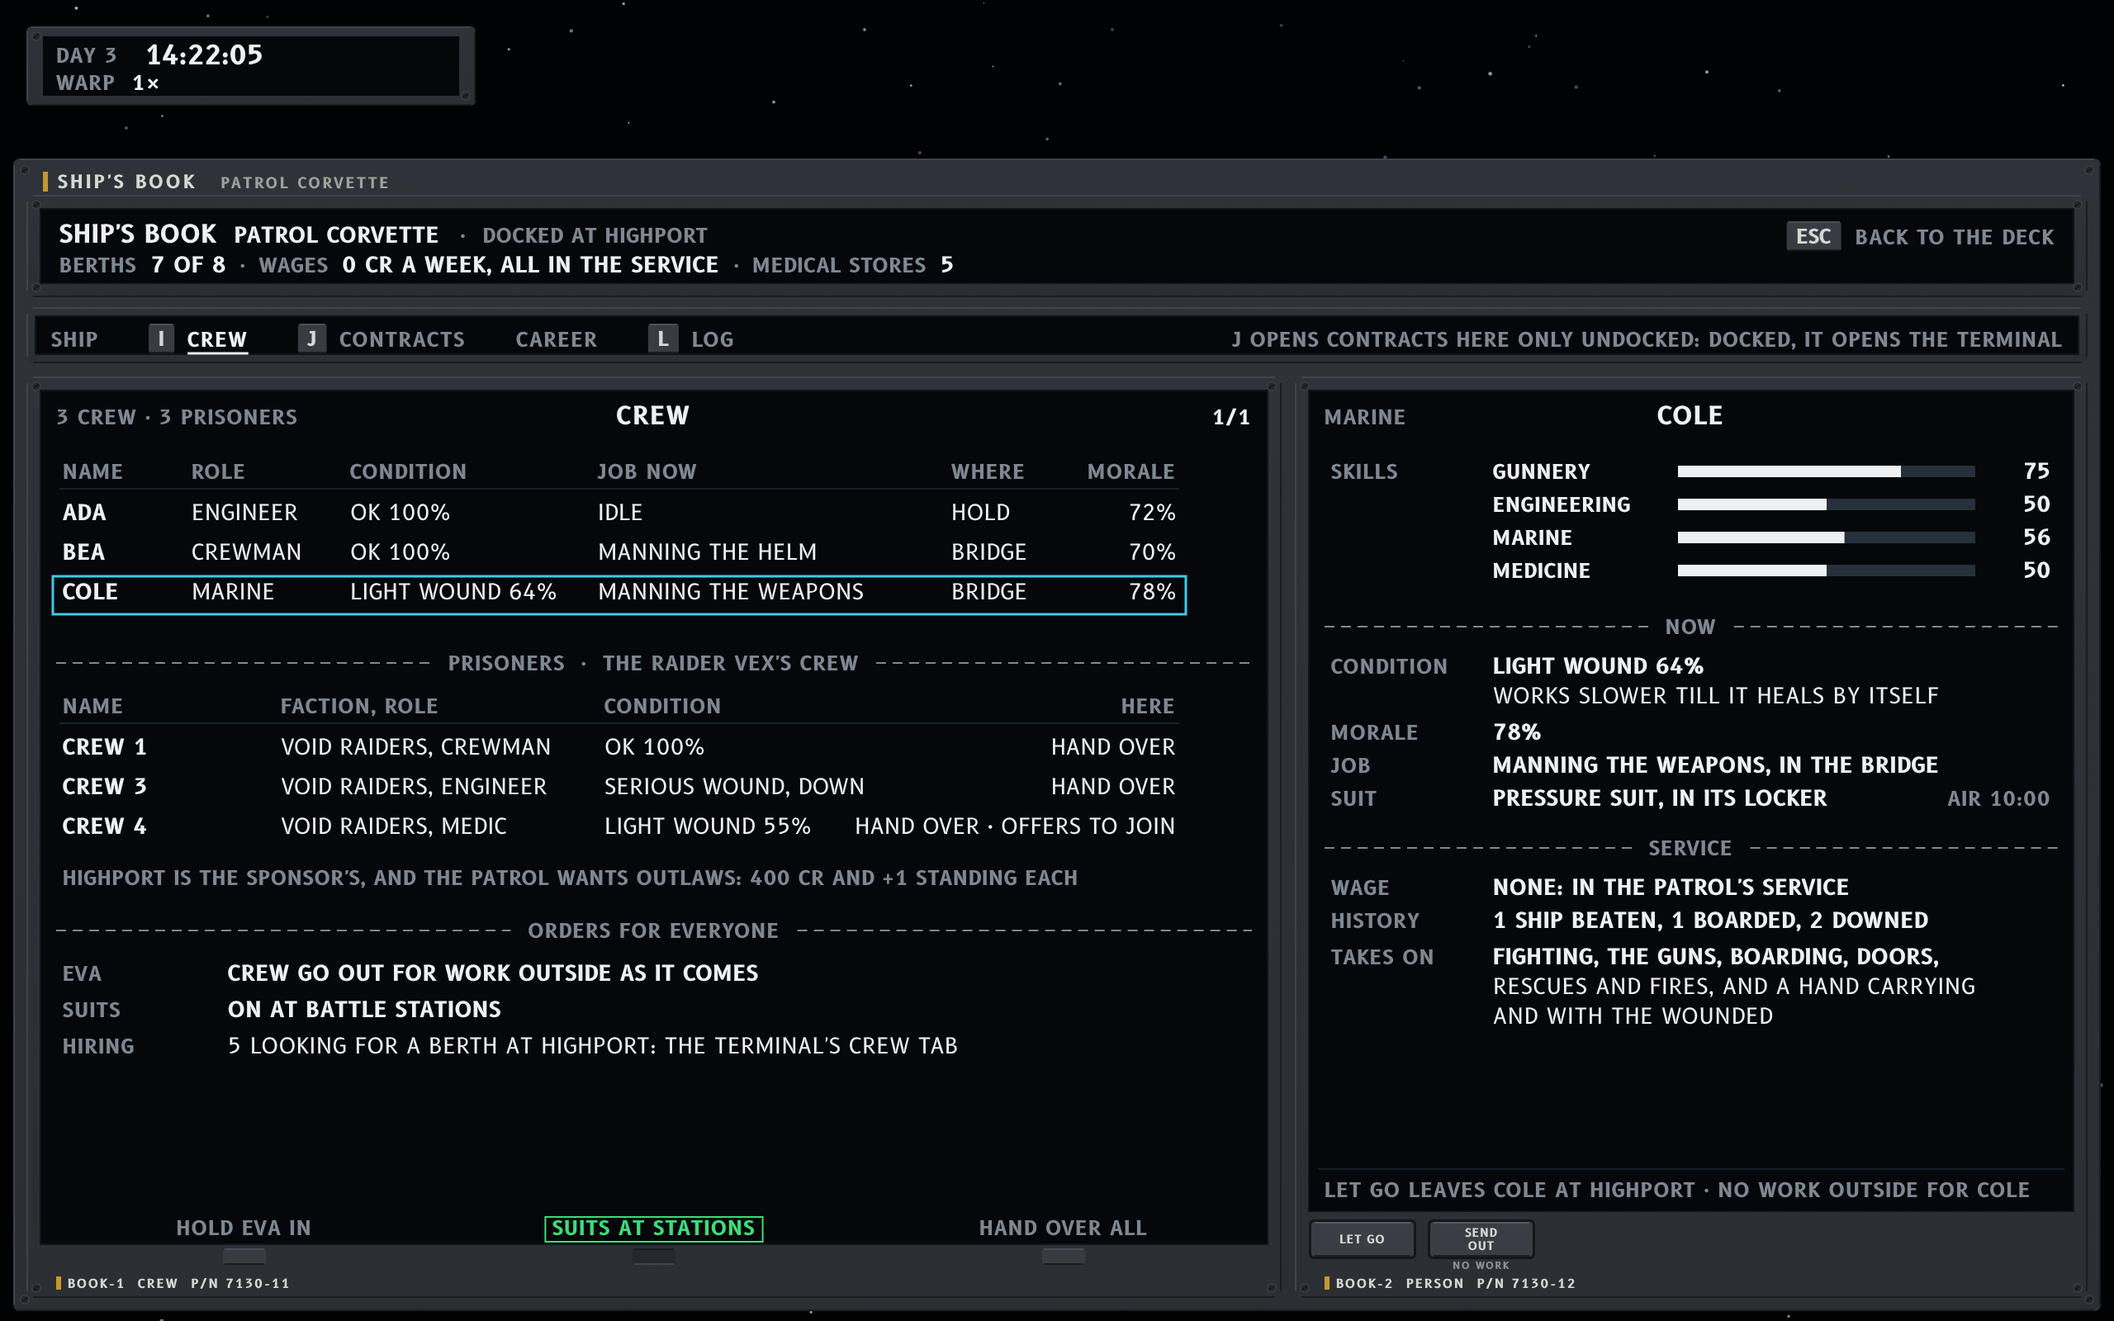
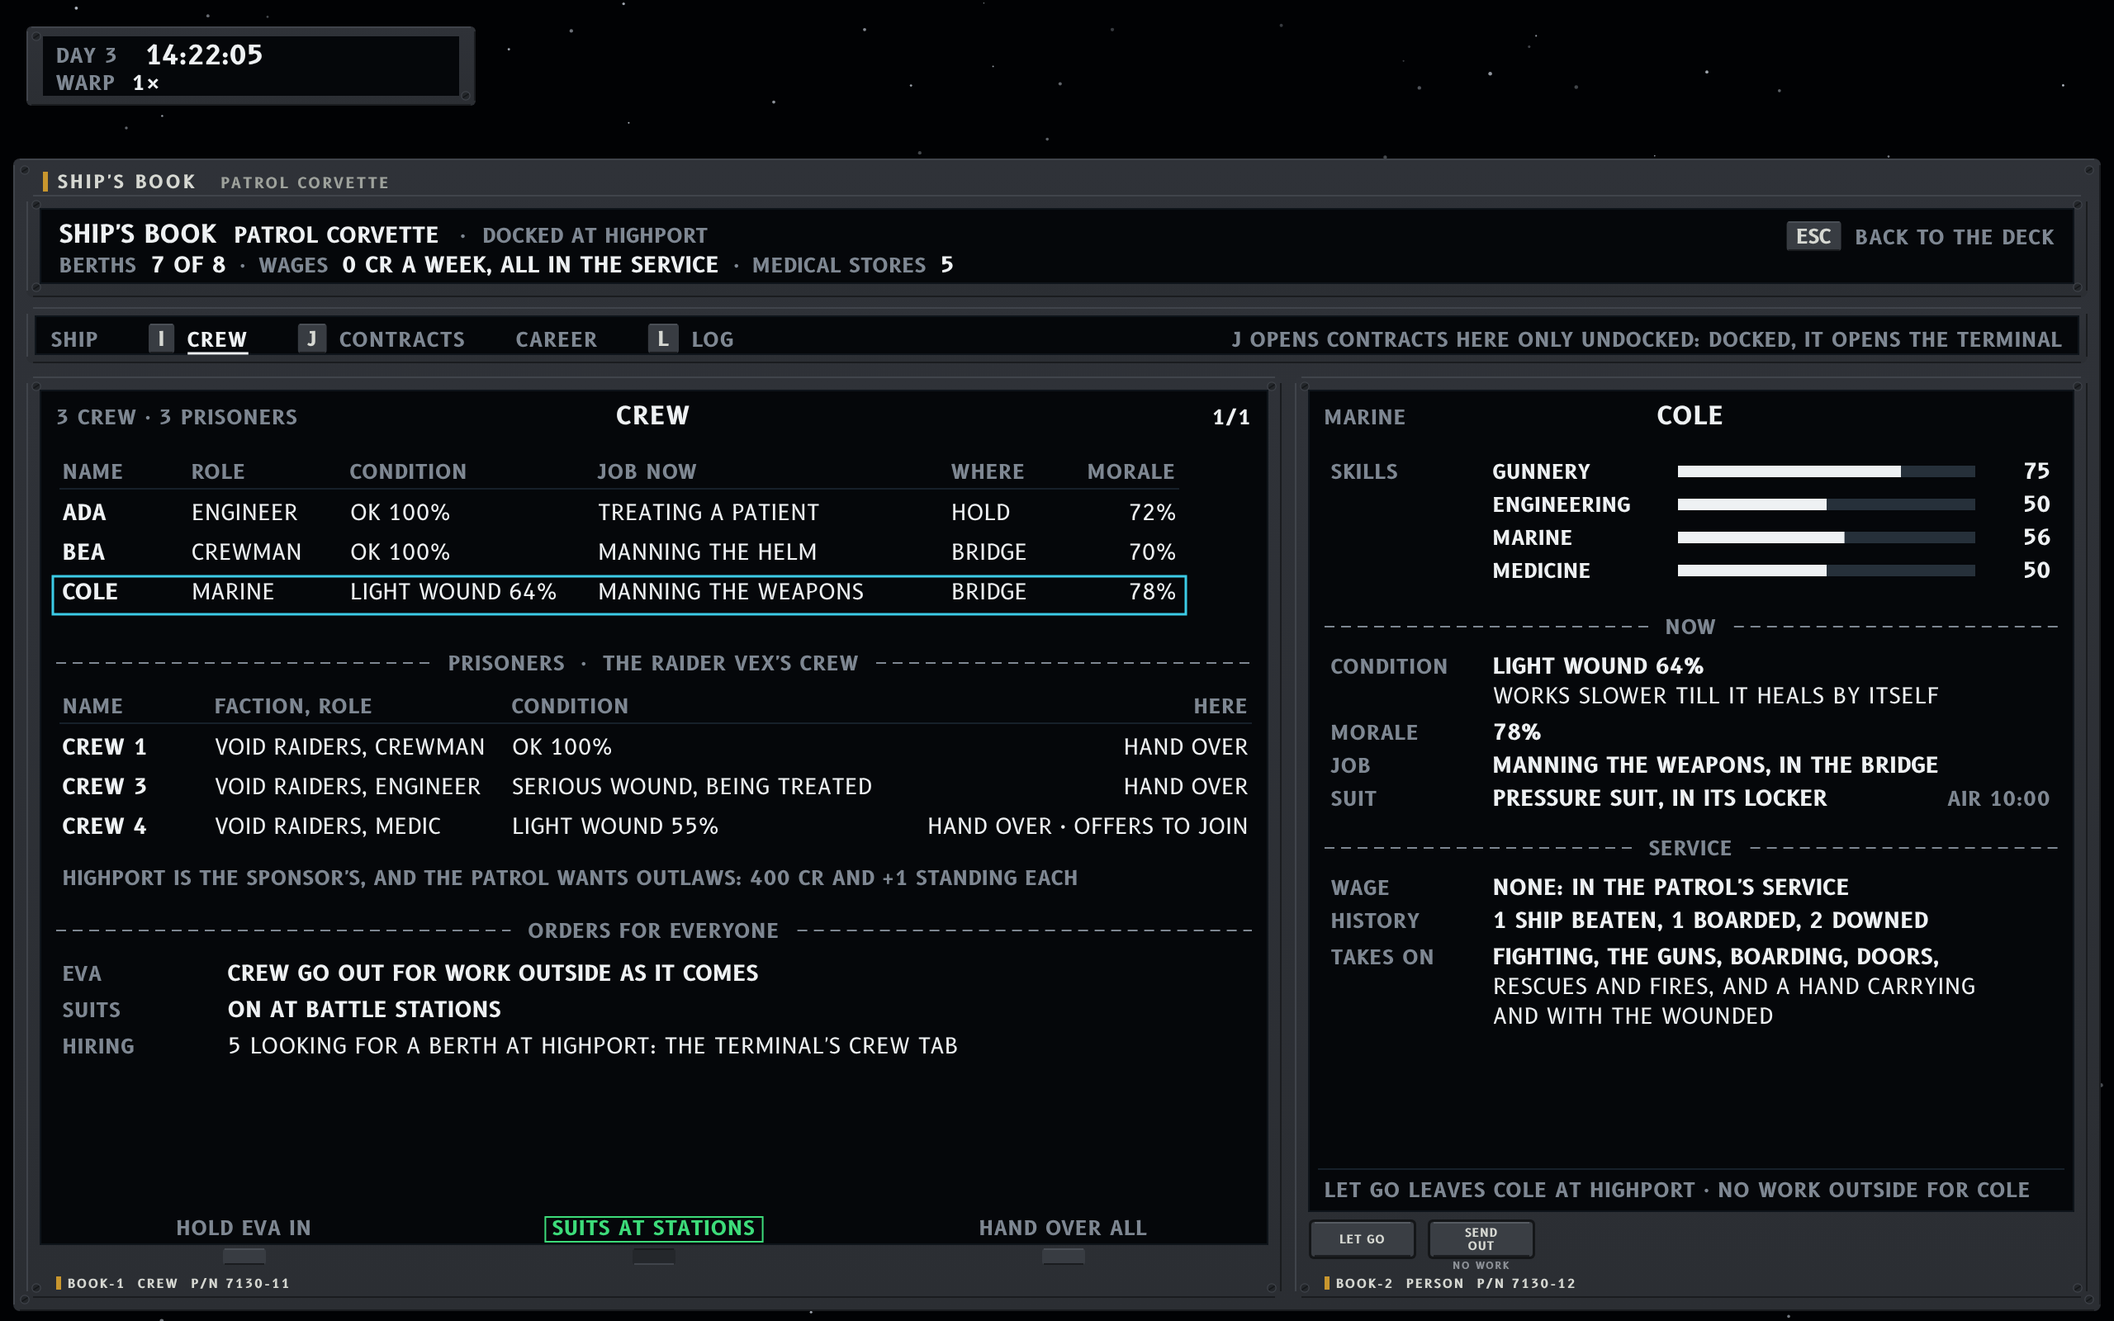
Nasa-punk task: the console panel at a gun (T10), and two fixes
T10 draws CON at the starboard autocannon, docked at Highport as in T7:
anchored below the mount, the prompt's plate grown, with health, power
and state on the glass and Enter and V as caps. T3's weapons console
prompt now offers only V SIT, since the spec has E and V both sit
there. T7's Ada treats the wounded prisoner, as the game's crew do.

Claude-Session: https://claude.ai/code/session_019poqwU7t7xAtWdh55iGaqe

Changed region(s): [[0.0938, 0.5312, 0.4062, 0.6562], [0.4375, 0.5312, 0.5938, 0.6562], [0.2812, 0.375, 0.375, 0.4062]]

diff --git a/documentation/ui-overhaul/variations/nasapunk-task/t10-console-gun.html b/documentation/ui-overhaul/variations/nasapunk-task/t10-console-gun.html
@@ -1,0 +1,98 @@
+<!doctype html>
+<html><head><meta charset="utf-8"><title>Task: console panel at a gun</title>
+<link rel="stylesheet" href="../../nasapunk/mockups/fonts.css">
+<style>html,body{margin:0;background:#000}svg{display:block}</style>
+</head><body>
+<div id="out"></div>
+<script src="../../nasapunk/mockups/lib.js"></script>
+<script src="../../nasapunk/mockups/kit.js"></script>
+<script src="../../nasapunk/mockups/screens.js"></script>
+<script src="task.js"></script>
+<script>
+// CON, the console panel (task spec, section 7), at a gun: docked at Highport on day 3, as in T7,
+// the captain has walked forward to the starboard autocannon's mount and pressed E. The panel is
+// anchored beside the console, below the mount where the starboard hull meets space, not in the
+// middle of the screen; it closes when the captain walks away, or with Esc (the closing order).
+//
+// It replaces today's console window at a gun (ConsoleWindow, titled "Gun": the console id, the
+// system, its health and state, a Switch off button, and "Take the gun [V]", centred on the
+// screen), in the spec's words: the system's name, health, power (its circuit, or none), state
+// (on, off, shorted, stunned) and its one switch, and at a gun, V takes it. The mount is named as
+// WPN names it (FWD STBD autocannon). The panel is the INT prompt's plate grown: the name engraved
+// on the bezel with its kapton strip, a glass for the numbers, and the two keys as caps with their
+// verbs, the switch's under a toggle that shows where it stands. Enter throws the switch and V
+// takes the gun (T9's CONSOLE rows); while the panel is open it carries those keys, so the prompt
+// it opened from stands down rather than repeat them.
+//
+// All of it is the game's: the corvette's five mounts, this one an Autocannon Mk1 on circuit 1, the
+// ship's one circuit (weapons.toml, ships.toml); nothing is wrong with it. The people are T7's: Bea
+// at the helm and Cole, lightly wounded, at the weapons console, seeing to the wound there
+// (CrewHealthSystem); Ada in the hold treating Crew 3, the prisoner seriously wounded, since a ship's
+// crew care for the prisoners they hold; Crew 1 and Crew 4 held beside them. The light wounds and
+// the one being treated light the CREW lamp's advisory. Docked, with no contract held and nothing
+// fresh to tell, OBJ, NTF and HLM are hidden, and PER too: the captain is unhurt, unsuited and in
+// good air.
+let s = space({ planet: false, seed: 13 });
+
+// The world: the camera on the captain by the starboard autocannon's mount (chassis 14, 1)
+const AV = [13.55, 1.6];
+const K = 60, OX = 640 - AV[0] * K, OY = 400 - (6 - AV[1]) * K, X = tx => OX + tx * K, Y = ty => OY + (6 - ty) * K;
+// Highport's arm, latched to the port side's collar
+{
+  const ax = X(7.3), aw = X(9.7) - X(7.3);
+  s += rect(ax, -4, aw, Y(6) + 8, { fill: '#3E434A', stroke: '#24282C', sw: 1.5 });
+  for (let yy = Y(6) - 30; yy > 0; yy -= 30) s += line(ax + 2, yy, ax + aw - 2, yy, '#2E3237', 2);
+  s += line(ax + 10, -4, ax + 10, Y(6), '#4D535B', 1.5) + line(ax + aw - 10, -4, ax + aw - 10, Y(6), '#4D535B', 1.5);
+  s += rect(X(7.1), Y(6) - 12, X(9.9) - X(7.1), 14, { fill: '#30353B', stroke: '#1E2125', sw: 1.5 });
+}
+s += corvetteDeck(OX, OY, K, {
+  id: 't10',
+  // Ada kneeling by Crew 3; Bea at the helm; Cole at the weapons console
+  crew: [[4.62, 1.62], [10.25, 4.55], [10.3, 3.45]],
+  held: [[3.55, 4.5], [4.5, 4.45]],
+  avatar: AV,
+  labels: true, labelAt: { bridge: [11.6, 2.75] },
+});
+// Crew 3, a prisoner seriously wounded and down, lying in the hold in the raiders' grey
+s += `<g transform="rotate(4 ${X(3.75)} ${Y(1.5)})"><ellipse cx="${X(3.75)}" cy="${Y(1.5)}" rx="${K * 0.44}" ry="${K * 0.2}" fill="#7D8590" stroke="#1A1A1A" stroke-width="1"/><circle cx="${X(3.75) - K * 0.4}" cy="${Y(1.5)}" r="${K * 0.16}" fill="#C99A78" stroke="#1A1A1A" stroke-width="0.8"/></g>`;
+
+// ---- the fixed zones: the clock, and the lamps with CREW's advisory ----
+s += chronometer({ day: 'DAY 3', time: '14:22:05', warp: '1×' });
+s += annunciatorPanel({ CREW: 'advisory' });
+
+// ---- CON, anchored beside the mount ----
+const MX = X(14.5), MY = Y(1.5);
+const P = { x: 712, y: 528, w: 280, h: 188 };
+// the leader from the mount's rim to the panel, in the world overlays' white
+s += haloed((c, w) => line(MX, MY + 0.42 * K, P.x + 30, P.y, c, w), C.white, 1) + `<circle cx="${MX}" cy="${MY + 0.42 * K}" r="2.5" fill="${C.white}"/>`;
+{
+  const { x, y, w, h } = P;
+  s += bezelBody(x, y, w, h, 4) + fastener(x + 7, y + 7) + fastener(x + w - 7, y + 7) + fastener(x + 7, y + h - 7) + fastener(x + w - 7, y + h - 7);
+  // the name, engraved on the bezel beside the prompt's kapton strip
+  s += rect(x + 16, y + 9, 3, 14, { fill: C.kapton }) + text(x + 25, y + 21, 'FWD STBD AUTOCANNON', { size: 12, bold: true, fill: C.stencil, track: 1 });
+  // the glass: health, power, state
+  const gx = x + 12, gy = y + 31, gw = w - 24, gh = 78;
+  s += rect(gx, gy, gw, gh, { fill: C.glass }) + rect(gx + 0.5, gy + 0.5, gw - 1, gh - 1, { stroke: '#0E141A', sw: 1 });
+  const row = (yy, k, v) => text(gx + 12, yy, k, { size: S_LABEL, bold: true, fill: C.dim, track: 0.6 }) + text(gx + 96, yy, v, { size: S_DATA, bold: true, fill: C.white, track: 0.4 });
+  s += row(gy + 22, 'HEALTH', '100%') + row(gy + 45, 'POWER', 'CIRCUIT 1') + row(gy + 68, 'STATE', 'ON');
+  // the switch: a toggle seen from the front, its lever up for on, ON and OFF engraved either side
+  const tx = x + 40, ty = y + 150;
+  s += text(tx, ty - 23, 'ON', { size: 9, bold: true, fill: C.stencil, anchor: 'middle', track: 1, legend: true });
+  s += text(tx, ty + 30, 'OFF', { size: 9, bold: true, fill: C.stencil, anchor: 'middle', track: 1, legend: true });
+  s += `<circle cx="${tx}" cy="${ty}" r="10" fill="#1F2226" stroke="#4A5058" stroke-width="1.2"/><circle cx="${tx}" cy="${ty}" r="5.5" fill="#2A2E33" stroke="#15171A" stroke-width="1"/>`;
+  s += line(tx, ty, tx, ty - 15, '#15171A', 4.5) + line(tx, ty, tx, ty - 15, '#D2D5CF', 3) + `<circle cx="${tx}" cy="${ty - 16}" r="3" fill="#D2D5CF" stroke="#15171A" stroke-width="0.8"/>`;
+  // the two keys, as caps with their verbs: Enter throws the switch, V takes the gun
+  const cap = (cx, cy, k, v) => {
+    const kw = tw(k, 12, true) + 14;
+    return softKey(cx, cy - 13, kw, 18, false) + text(cx + kw / 2, cy, k, { size: 12, bold: true, fill: C.stencil, anchor: 'middle' })
+      + text(cx + kw + 8, cy, v, { size: TB, bold: true, fill: C.white, track: 0.4 });
+  };
+  s += cap(x + 70, ty - 6, 'ENTER', 'SWITCH OFF') + cap(x + 70, ty + 22, 'V', 'TAKE THE GUN');
+}
+
+// E opened the panel and V is on it, so the hint line carries the rest
+s += hintLine([['ESC', 'CLOSE'], ['W/A/S/D', 'WALK'], ['F1', 'CONTROLS']]);
+
+document.getElementById('out').innerHTML = svgPage(s);
+</script>
+</body></html>

diff --git a/documentation/ui-overhaul/variations/nasapunk-task/t7-book-crew.html b/documentation/ui-overhaul/variations/nasapunk-task/t7-book-crew.html
@@ -21,10 +21,11 @@
 // or reads New (every second of work also raises engineering, so Cole, with none, is still at 50); a
 // condition is OK or unconscious with the health left, a light wound with it, or a serious or
 // critical wound with what is being done about it. The job is the game's own words for it
-// (CrewTasks): with nothing to do, an engineer is idle, since an engineer never mans a console (a
-// damaged system is mended in seconds, and the rest of the damage is the yard's), and the rest man
-// the consoles (a crewman the helm, a marine the weapons); a suit goes back to its locker, which
-// fills it. Prisoners take berths (4 aboard and 3 held of the corvette's 8). A
+// (CrewTasks): an engineer never mans a console (a damaged system is mended in seconds, and the
+// rest of the damage is the yard's), so Ada, free, is treating a patient, Crew 3, since a ship's
+// crew care for the prisoners they hold, a serious wound first (CrewHealthSystem), and the rest man
+// the consoles (a crewman the helm, a marine the weapons), where the lightly wounded see to
+// themselves; a suit goes back to its locker, which fills it. Prisoners take berths (4 aboard and 3 held of the corvette's 8). A
 // raider's crew are named Crew 1 to 4 by the game, and Crew 2 died of the wound; at one of the
 // sponsor's stations a prisoner the sponsor wants is handed over for 400 CR and +1 standing; and one
 // outlaw in three offers to join, by a hash of the name and role, which picks Crew 4. Send out
@@ -74,16 +75,16 @@ const list = du(16, 228, 760, 558, {
     const L = gx + 14;
     const cols = [{ t: 'NAME', w: 78 }, { t: 'ROLE', w: 96 }, { t: 'CONDITION', w: 150 }, { t: 'JOB NOW', w: 214 }, { t: 'WHERE', w: 70 }, { t: 'MORALE', w: 66, align: 'right' }];
     const gr = grid(L, gy + 54, cols, [
-      [{ t: 'ADA', bold: true }, 'ENGINEER', 'OK 100%', 'IDLE', 'HOLD', '72%'],
+      [{ t: 'ADA', bold: true }, 'ENGINEER', 'OK 100%', 'TREATING A PATIENT', 'HOLD', '72%'],
       [{ t: 'BEA', bold: true }, 'CREWMAN', 'OK 100%', 'MANNING THE HELM', 'BRIDGE', '70%'],
       { cells: [{ t: 'COLE', bold: true }, 'MARINE', 'LIGHT WOUND 64%', 'MANNING THE WEAPONS', 'BRIDGE', '78%'], cursor: true },
     ], { rule: 0, rh: 24 });
     g += gr.svg;
     // the prisoners: theirs, and what can be done with them here
     g += divider(gx, gy + 170, gw, 'PRISONERS  ·  THE RAIDER VEX\'S CREW');
-    const pr = grid(L, gy + 196, [{ t: 'NAME', w: 132 }, { t: 'FACTION, ROLE', w: 196 }, { t: 'CONDITION', w: 150 }, { t: 'HERE', w: 196, align: 'right' }], [
+    const pr = grid(L, gy + 196, [{ t: 'NAME', w: 92 }, { t: 'FACTION, ROLE', w: 180 }, { t: 'CONDITION', w: 236 }, { t: 'HERE', w: 210, align: 'right' }], [
       [{ t: 'CREW 1', bold: true }, 'VOID RAIDERS, CREWMAN', 'OK 100%', 'HAND OVER'],
-      [{ t: 'CREW 3', bold: true }, 'VOID RAIDERS, ENGINEER', 'SERIOUS WOUND, DOWN', 'HAND OVER'],
+      [{ t: 'CREW 3', bold: true }, 'VOID RAIDERS, ENGINEER', 'SERIOUS WOUND, BEING TREATED', 'HAND OVER'],
       [{ t: 'CREW 4', bold: true }, 'VOID RAIDERS, MEDIC', 'LIGHT WOUND 55%', { t: 'HAND OVER · OFFERS TO JOIN', c: C.white }],
     ], { rule: 0, rh: 24 });
     g += pr.svg;

diff --git a/documentation/ui-overhaul/variations/nasapunk-task/t3-deck-damage.html b/documentation/ui-overhaul/variations/nasapunk-task/t3-deck-damage.html
@@ -28,7 +28,9 @@ s += corvetteDeck(OX, OY, K, {
 s += hazardTag(X(6.6), Y(1.4), 296, 672, 'caution', 'FIRE  MEDIUM', { progress: 0.35 });
 s += hazardTag(X(10.5), Y(1.3), 552, 672, 'caution', 'SHORT', { progress: 0.6, w: 92 });
 s += hazardTag(X(13.5), Y(0) + 6, 796, 672, 'caution', 'BREACH  VENTING', { nobody: true });
-s += O.prompt(X(14.6), Y(3.6) - 13, 'WEAPONS CONSOLE', [['E', 'OPEN'], ['V', 'SIT']]);
+// INT: the weapons console opens no panel, since E and V both sit there (CON), so its prompt names
+// the one verb, as the spec's `Helm   V sit` does
+s += O.prompt(X(13.95), Y(3.6) - 13, 'WEAPONS CONSOLE', [['V', 'SIT']]);
 
 s += chronometer({ day: 'DAY 3', time: '14:22:05', warp: '1×', note: 'HELD: FIRE ABOARD' });
 // three cautions, and CREW advisory: the hit left two light wounds, yours and Bea's, which slow

diff --git a/documentation/ui-overhaul/variations/nasapunk-task/README.md b/documentation/ui-overhaul/variations/nasapunk-task/README.md
@@ -30,7 +30,8 @@ quarter so the lamps' 12-unit legends fit their lenses.
 | HLM helm status (Z8) | A mode strip: who has the helm, and the order in an FMA box (green while it flies, white while it holds or waits). At gunnery it spans the gap between SHIP and WEAPONS, so an order with a whole contact name fits. |
 | WPN weapons (Z7) | A DU: one row per mount (where, what, who works it, state, time of flight), with the decoy as the last row, worked by hand like the launcher. |
 | SNS scope (Z7 corner) | A scope DU. The range is automatic, with − and + caps either side of its figure to override it, as the game's scope has them; the count of hostiles on its own row under the scope, so nothing moves when one appears. |
-| Interaction prompt | A bezel plate: the object's name once, then each key with its verb (`WEAPONS CONSOLE  E OPEN  V SIT`). |
+| Interaction prompt | A bezel plate: the object's name once, then each key with its verb (`WEAPONS CONSOLE  V SIT`). |
+| CON console panel | The prompt's plate grown: the system's name engraved beside the kapton strip, a glass with health, power and state, and the keys as caps with their verbs, the switch's under a toggle that shows where it stands. |
 | HNT hints (Z9) | Key caps with their verbs. |
 
 ## Screens
@@ -67,8 +68,8 @@ are lit.
 vents with nobody free to patch it; a short has cut power to the bridge and Ada resets it, the
 progress on its tag. No warning, three cautions in their short forms, in the spec's order of
 severity. On deck the deck is the schematic, so Z5 is empty and FLT, WPN and SNS are hidden; the
-console prompt names the weapons console once, then E OPEN and V SIT, so the hint line doesn't
-repeat them. The hit left two light wounds, the captain's and Bea's, so CREW is lit softly as an
+console prompt names the weapons console once, then V SIT, since the weapons console opens no
+panel and E sits there too, so the hint line doesn't repeat it. The hit left two light wounds, the captain's and Bea's, so CREW is lit softly as an
 advisory and the suit's display reads LIGHT WOUND; Bea's is the news slip, the game's own words,
 the captain's having had its five seconds. The objective is spec round 11's urgent food delivery to
 Shackleton Ice, by the game's title, LATE in amber before its 2D 9H, since the plan arrives after
@@ -134,8 +135,9 @@ short. TAKE (Enter) and SHOW ROUTE (M) are keys under the glass.
 **T7, BOOK on its CREW tab, docked at Highport after T5.** The terminal's frame again, with the
 ship, its berths, the week's wages and the medical stores in the header. The crew are the
 service's, so they draw no wage. Each row has the role, the condition as the game words it, the
-job now and where, in the game's words, and morale. With nothing to do, Ada is idle, since an
-engineer never mans a console, and the rest man them, a crewman the helm and a marine the weapons. Vex's three surviving crew are aboard as
+job now and where, in the game's words, and morale. An engineer never mans a console, so Ada is
+treating a patient, Crew 3, since a ship's crew care for the prisoners they hold, and the rest man
+them, a crewman the helm and a marine the weapons. Vex's three surviving crew are aboard as
 prisoners under the names the game gives a raider's crew, taking berths (7 of the corvette's 8,
 the captain's among them). Highport is the sponsor's, so each can be handed over for 400 CR and +1
 standing, and Crew 4, the one outlaw in three, offers to join. The orders for everyone sit under
@@ -180,6 +182,20 @@ helm orders and a destination; the map's keys are its buttons, the bumpers stepp
 destination and the triggers warp; the book's bumpers step its tabs; and the pause menu holds
 Controls and Load. One action is left with a dash: no pad button cuts a door.
 
+![Console panel at a gun](t10-console-gun.png)
+
+**T10, CON at a gun, docked at Highport as in T7.** The captain has walked forward to the
+starboard autocannon and pressed E. The panel is anchored beside the console, below the mount
+where the hull meets space, on a leader from the mount, so the deck stays in sight and the middle
+of the screen stays the world's; walking away closes it, and so does Esc. It is the prompt's plate
+grown: the mount's name as WPN gives it, engraved beside the kapton strip; health, power (circuit
+1, the ship's one) and state on the glass; and the keys as caps with their verbs, Enter to switch
+it off under a toggle that shows where the switch stands, and V to take the gun. While the panel is
+open it carries those keys, so the prompt stands down rather than repeat them, and the hint line
+keeps Esc, walking and F1. The rest of the HUD is what the spec shows docked with nothing wrong:
+the clock, and the lamps with CREW lit softly for the light wounds and the prisoner Ada is
+treating in the hold. OBJ, NTF, HLM and PER have nothing to say, so they are hidden.
+
 ## Round 6 critique
 
 Round 8 of the spec took all three round 4 notes: the scope's − and + are back, the 5 km step's
@@ -220,6 +236,8 @@ Resolved without a change:
 
 ## Deviations from the spec
 
+- **The interaction prompt stands down while a console panel is open.** The panel shows the same
+  keys (CON's switch and `V  take the gun`), and the spec has no key repeat on screen (HNT).
 - **Warp reads `1×`** with the multiplication sign, where the spec writes `1x`.
 - **Countdowns are M:SS** (`IMPACT 0:03`, `CPA 0.6 KM  T−1:15`), where the spec writes seconds.
 - **The log's clearing time has seconds** (`CLEARED 12:14:31`), where the spec writes `cleared
